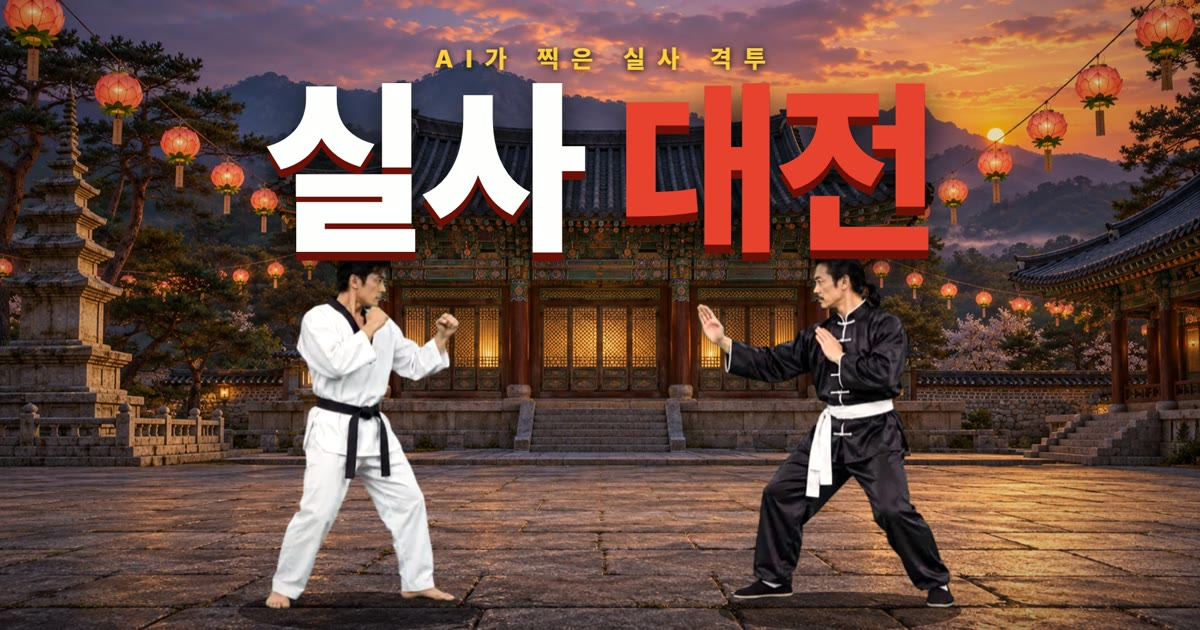
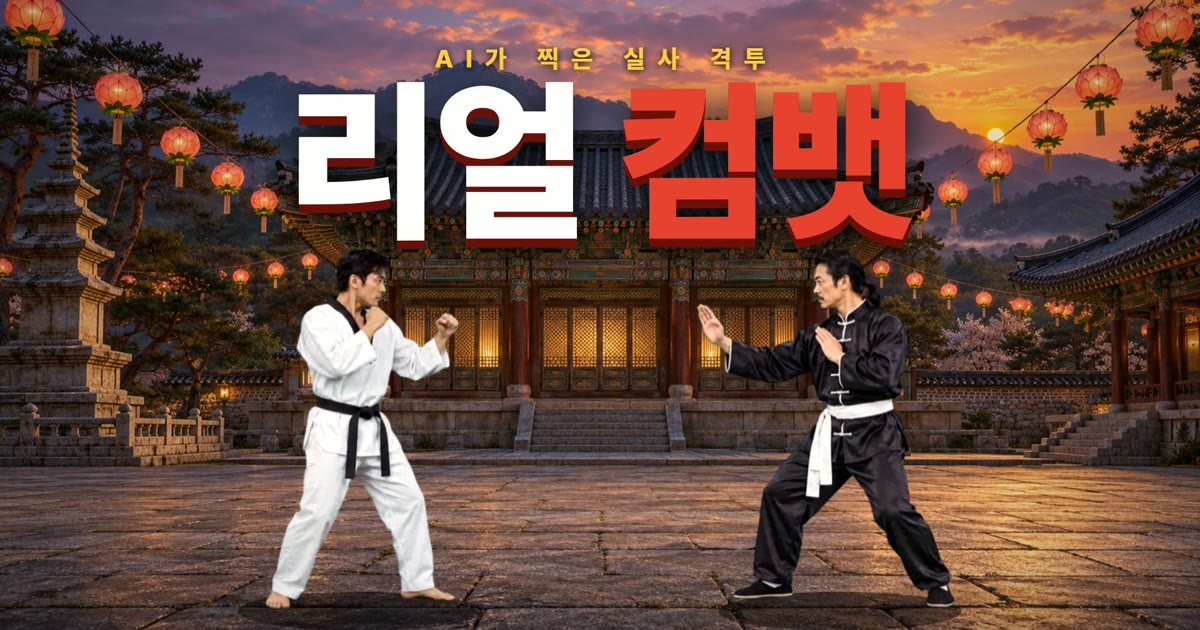
게임 이름을 «리얼 컴뱃»으로 — 타이틀·미리보기·아이콘·앱 이름

Changed region(s): [[0.2158, 0.1206, 0.8017, 0.4524]]

diff --git a/motal/index.html b/motal/index.html
@@ -8,19 +8,19 @@
 <meta name="mobile-web-app-capable" content="yes">
 <meta name="apple-mobile-web-app-capable" content="yes">
 <meta name="apple-mobile-web-app-status-bar-style" content="black-translucent">
-<meta name="apple-mobile-web-app-title" content="실사 대전">
+<meta name="apple-mobile-web-app-title" content="리얼 컴뱃">
 <link rel="apple-touch-icon" href="icon-512.png">
-<title>실사 대전 — AI로 찍은 격투게임</title>
+<title>리얼 컴뱃 — AI로 찍은 실사 격투게임</title>
 <meta name="description" content="태권도 대 쿵푸 — 모든 동작을 AI 영상으로 찍은 실사 2D 격투게임. 필살기·초필살 컷인·기공파, 컴퓨터 대전과 1:1 대전.">
 <link rel="canonical" href="https://kimju.kr/motal/">
 <meta property="og:type" content="website">
 <meta property="og:url" content="https://kimju.kr/motal/">
-<meta property="og:title" content="실사 대전 — AI로 찍은 격투게임">
+<meta property="og:title" content="리얼 컴뱃 — AI로 찍은 실사 격투게임">
 <meta property="og:description" content="태권도 대 쿵푸. 모든 동작을 AI 영상으로 찍은 실사 격투게임 — 컴퓨터 대전·1:1 대전">
-<meta property="og:image" content="https://kimju.kr/motal/og.jpg?v=2">
+<meta property="og:image" content="https://kimju.kr/motal/og.jpg?v=3">
 <meta property="og:image:width" content="1200"><meta property="og:image:height" content="630">
 <meta name="twitter:card" content="summary_large_image">
-<meta name="twitter:image" content="https://kimju.kr/motal/og.jpg?v=2">
+<meta name="twitter:image" content="https://kimju.kr/motal/og.jpg?v=3">
 <link rel="stylesheet" href="https://cdn.jsdelivr.net/gh/orioncactus/pretendard@v1.3.9/dist/web/variable/pretendardvariable-dynamic-subset.min.css">
 <style>
 :root{--red:#e8412f;--blue:#2f8fe8;--gold:#f5c542;--ink:#f4efe6}
@@ -142,7 +142,7 @@ button{font-family:inherit;cursor:pointer}
 
 <div id="title" class="ov hide">
   <div class="kick">AI가 찍은 실사 격투</div>
-  <h1>실사 <b>대전</b></h1>
+  <h1>리얼 <b>컴뱃</b></h1>
   <p class="sub">태권도 대 쿵푸 — 진짜 사람처럼 움직이는 2D 격투게임</p>
   <div class="menu">
     <button id="m1p" class="focus">컴퓨터와 대전<small>혼자 하기</small></button>
